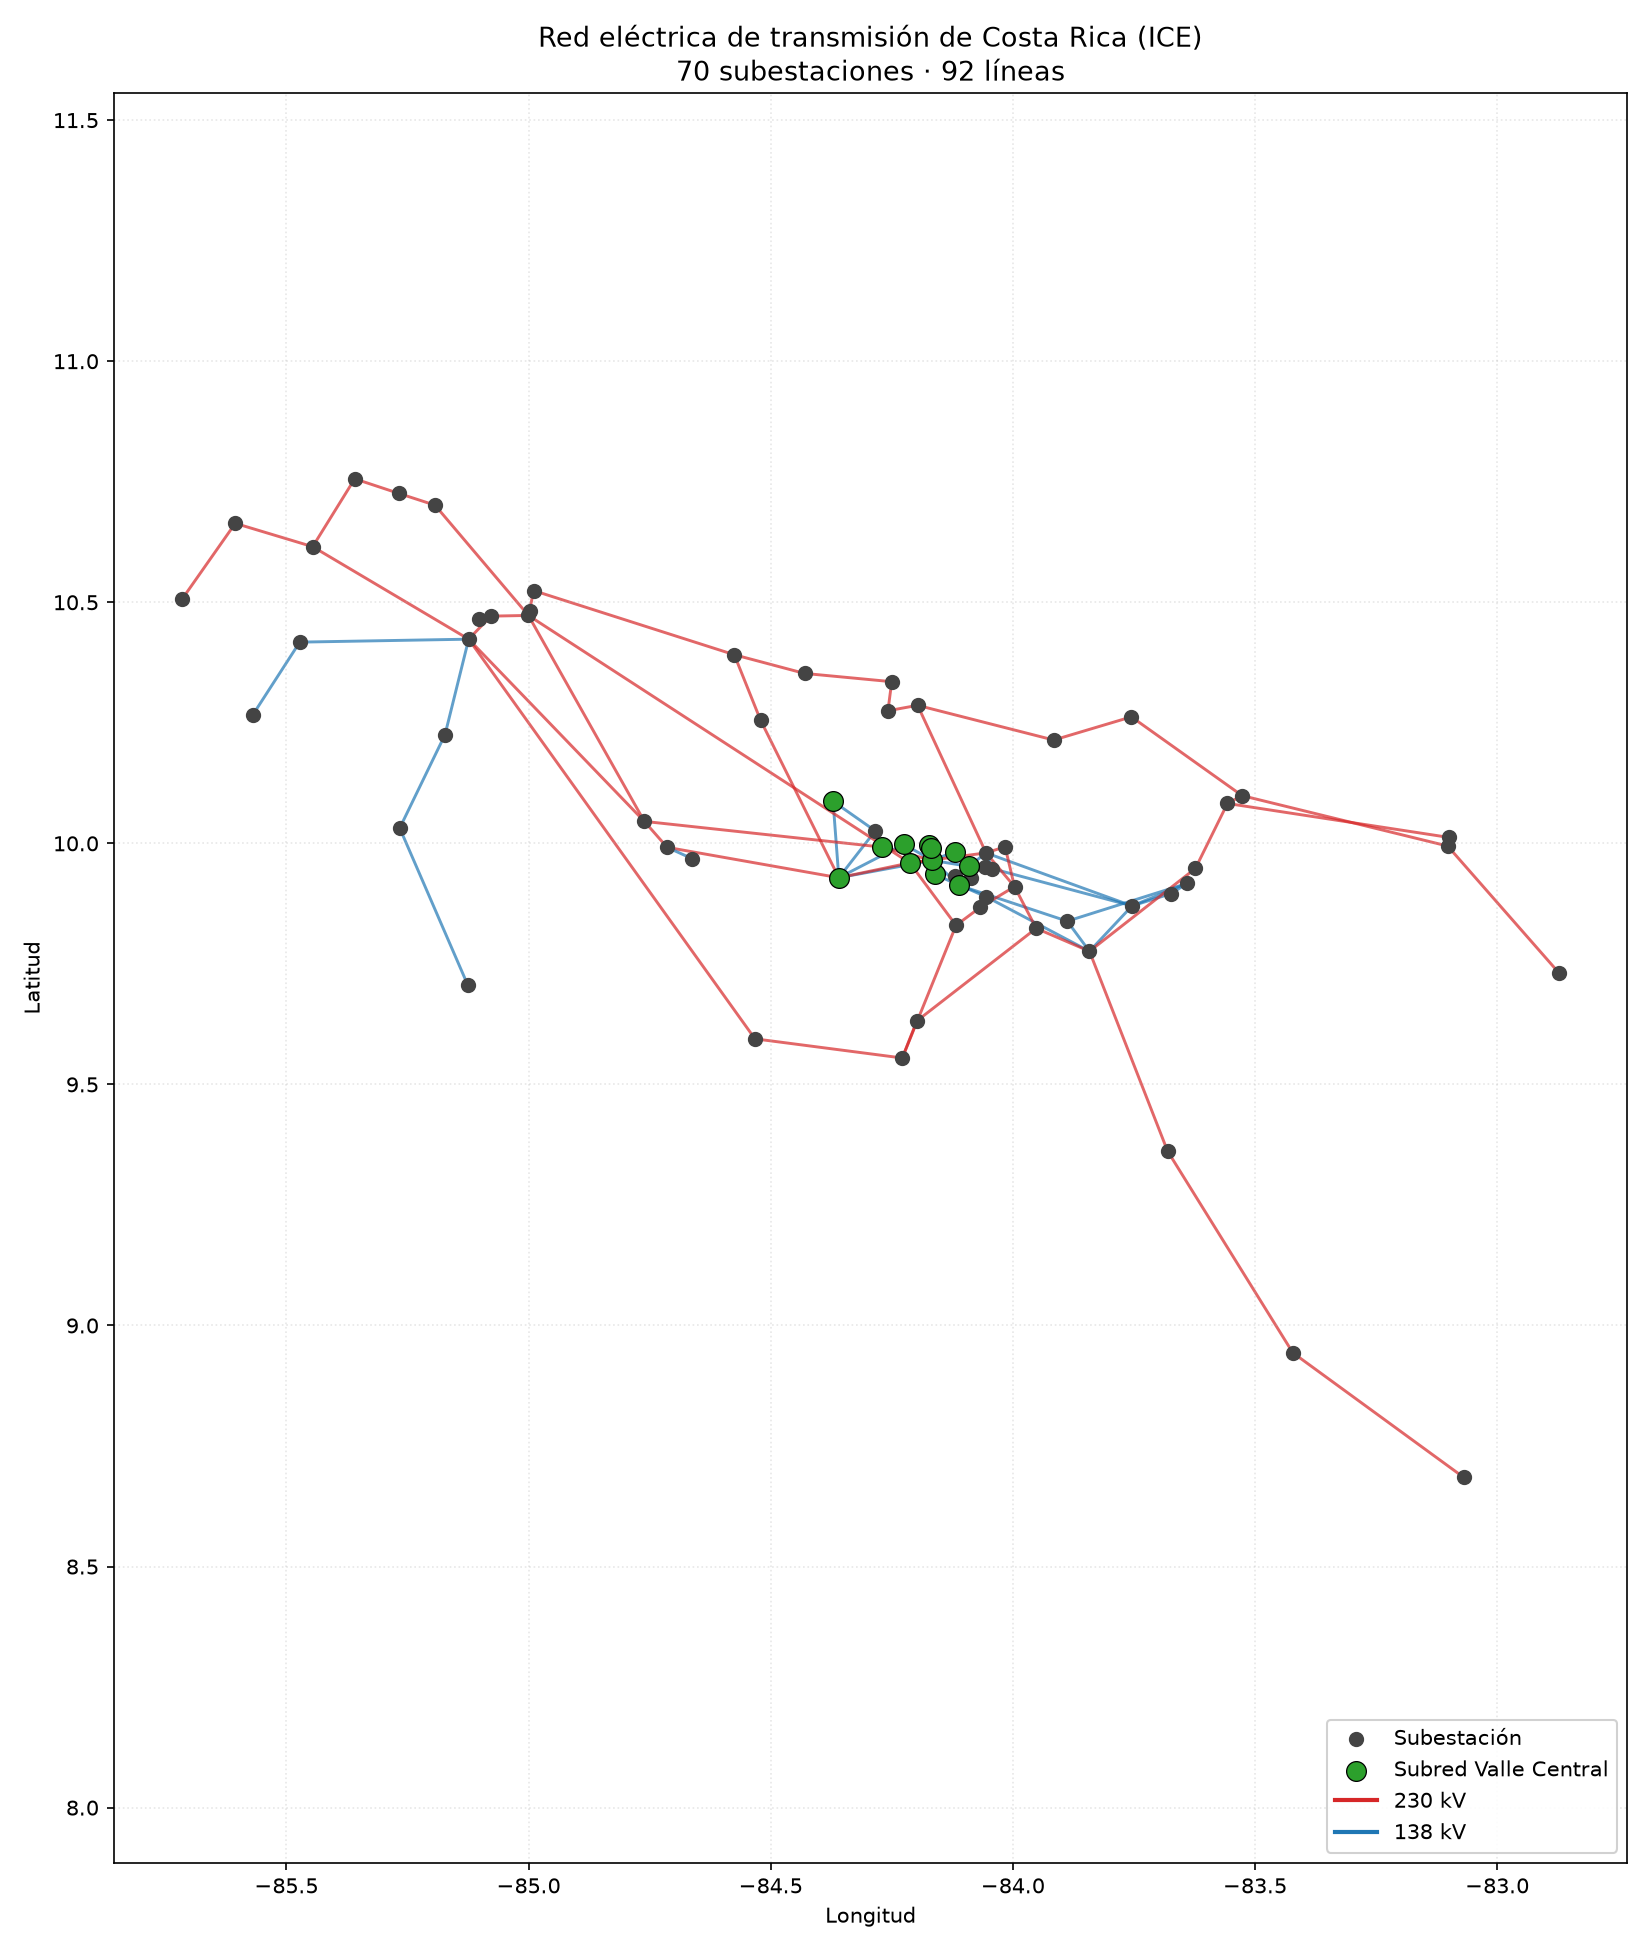
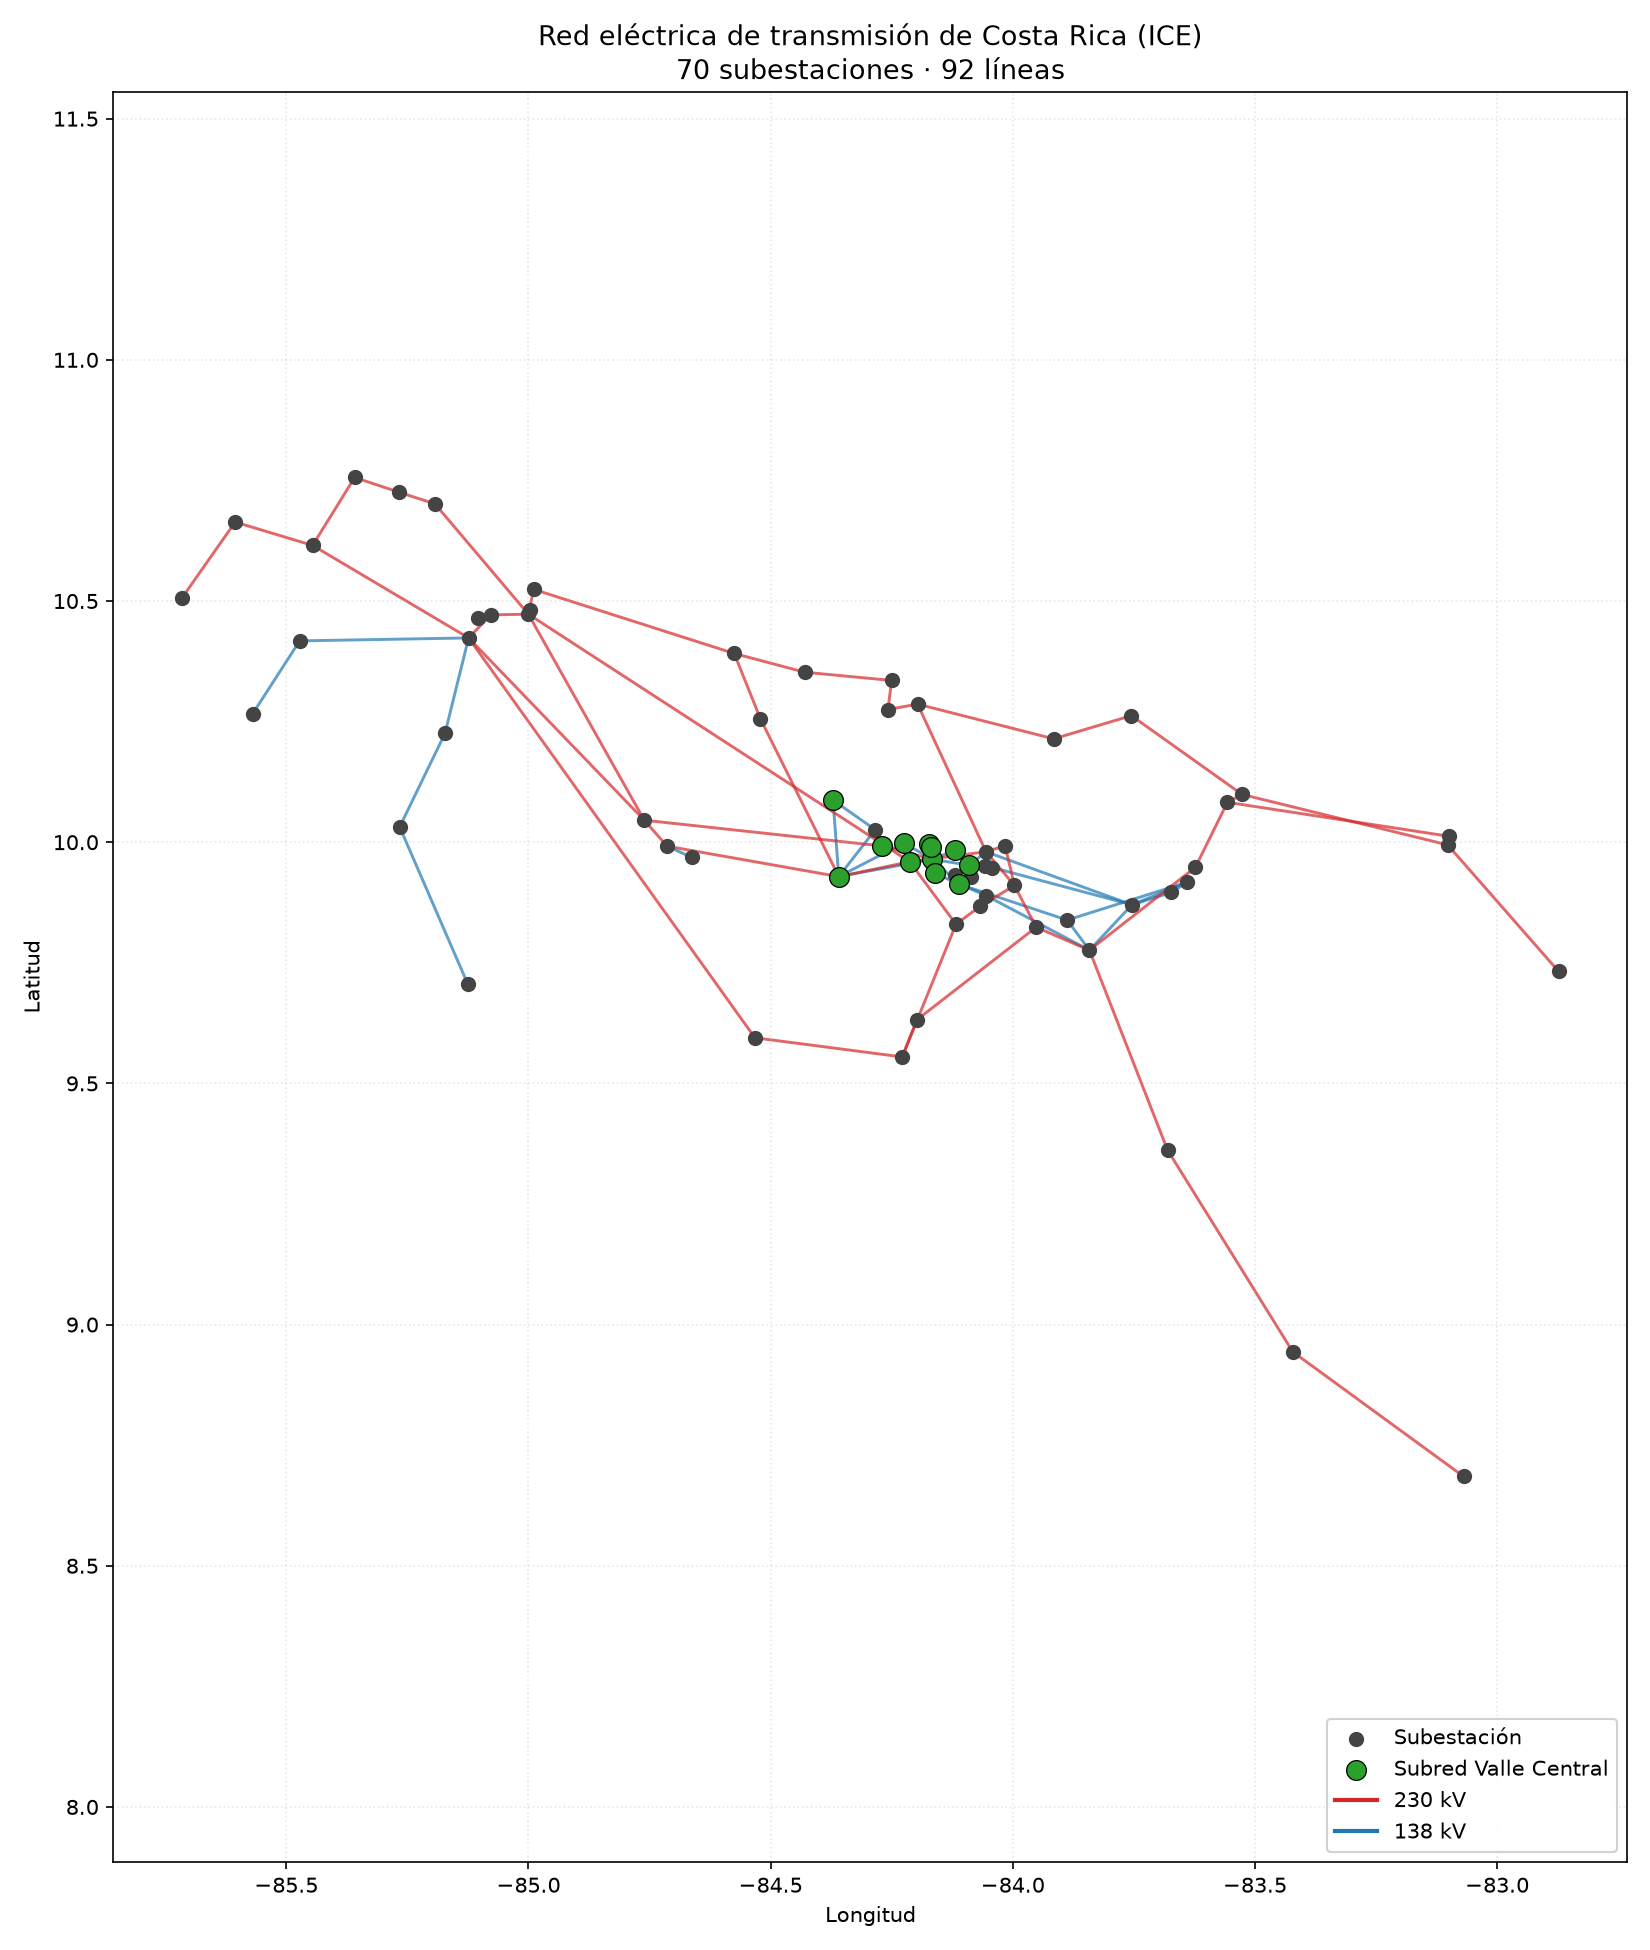
Create algoritms class and graf

diff --git a/src/visualize.py b/src/visualize.py
@@ -15,11 +15,12 @@ from __future__ import annotations
 
 import json
 from pathlib import Path
+from typing import Iterable
 
 import matplotlib.pyplot as plt
 import networkx as nx
 
-from src import graph
+from src import classical_baselines, graph
 
 ROOT = Path(__file__).resolve().parent.parent
 RAW_DIR = ROOT / "data" / "raw"
@@ -127,6 +128,52 @@ def plot_subgraph(sub: nx.Graph, out: Path) -> Path:
     return out
 
 
+def plot_result_bars(results: dict[str, float], out: Path) -> Path:
+    """Grafica una comparación clara de valores de corte entre algoritmos."""
+    fig, ax = plt.subplots(figsize=(9, 5))
+    names = list(results.keys())
+    values = [results[name] for name in names]
+    colors = ["#1f77b4", "#ff7f0e", "#2ca02c", "#d62728"]
+
+    ax.barh(names, values, color=colors[: len(names)], edgecolor="#333333", alpha=0.9)
+    ax.set_xlabel("Valor de Max-Cut")
+    ax.set_title("Comparación de algoritmos clásicos para Max-Cut")
+    ax.grid(axis="x", linestyle=":", alpha=0.5)
+    for i, value in enumerate(values):
+        ax.text(value + max(values) * 0.01, i, f"{value:.2f}", va="center", fontsize=10)
+
+    fig.tight_layout()
+    out.parent.mkdir(parents=True, exist_ok=True)
+    fig.savefig(out, dpi=180, bbox_inches="tight")
+    plt.close(fig)
+    return out
+
+
+def plot_cut_partition(G: nx.Graph, partition: dict[str, int], out: Path) -> Path:
+    """Grafica el corte para una partición de Max-Cut usando un diseño claro."""
+    pos = _positions(G)
+    if len(pos) < G.number_of_nodes():
+        pos = nx.spring_layout(G, seed=42, weight="weight")
+
+    cut_edges = [(u, v) for u, v in G.edges() if partition.get(u) != partition.get(v)]
+    same_edges = [(u, v) for u, v in G.edges() if partition.get(u) == partition.get(v)]
+
+    fig, ax = plt.subplots(figsize=(10, 8))
+    nx.draw_networkx_nodes(G, pos, ax=ax, node_size=240, node_color=["#1f77b4" if partition.get(n) == 0 else "#ff7f0e" for n in G.nodes()], edgecolors="#222222", linewidths=0.8)
+    nx.draw_networkx_edges(G, pos, ax=ax, edgelist=same_edges, edge_color="#bbbbbb", alpha=0.6, width=1.2)
+    nx.draw_networkx_edges(G, pos, ax=ax, edgelist=cut_edges, edge_color="#d62728", alpha=0.95, width=2.3)
+    nx.draw_networkx_labels(G, pos, ax=ax, font_size=8, font_color="#222222")
+
+    ax.set_title("Partición de Max-Cut: bordes en rojo representan el corte", fontsize=13)
+    ax.axis("off")
+    fig.tight_layout()
+
+    out.parent.mkdir(parents=True, exist_ok=True)
+    fig.savefig(out, dpi=180, bbox_inches="tight")
+    plt.close(fig)
+    return out
+
+
 def main() -> None:
     subs = json.loads((RAW_DIR / "subestaciones.geojson").read_text(encoding="utf-8"))
     lines = json.loads((RAW_DIR / "lineas.geojson").read_text(encoding="utf-8"))
@@ -135,9 +182,27 @@ def main() -> None:
 
     p1 = plot_national(G, highlight=set(sub.nodes), out=FIG_DIR / "red_nacional.png")
     p2 = plot_subgraph(sub, out=FIG_DIR / "subred_valle_central.png")
+
+    results = {}
+    results["Greedy"] = classical_baselines.greedy_maxcut(sub, seed=0)[1]
+    results["Goemans-Williamson"] = classical_baselines.goemans_williamson(sub, n_rounding_trials=100, seed=42)[1]
+
+    p3 = plot_result_bars(results, out=FIG_DIR / "comparacion_algoritmos.png")
+
+    # Usar la partición del mejor algoritmo para mostrar el corte
+    best_algo = max(results, key=results.get)
+    if best_algo == "Greedy":
+        best_partition = classical_baselines.greedy_maxcut(sub, seed=0)[0]
+    else:
+        best_partition = classical_baselines.goemans_williamson(sub, n_rounding_trials=100, seed=42)[0]
+
+    p4 = plot_cut_partition(sub, best_partition, out=FIG_DIR / "maxcut_partition.png")
+
     print("Figuras generadas:")
     print(" -", p1)
     print(" -", p2)
+    print(" -", p3)
+    print(" -", p4)
 
 
 if __name__ == "__main__":

diff --git a/README.md b/README.md
@@ -52,6 +52,21 @@ source .venv/bin/activate
 
 When you need a new package, install it inside the activated venv, then add it to `requirements.txt` so the rest of the team picks it up next time they run the setup script.
 
+### Visualización de resultados
+
+Este proyecto incluye un script de visualización que genera gráficos modernos y profesionales a partir de la subred usada para Max-Cut:
+
+```powershell
+python -m src.visualize
+```
+
+El script produce las siguientes figuras en `figures/`:
+
+* `red_nacional.png` — mapa de la red eléctrica nacional con la subred resaltada.
+* `subred_valle_central.png` — visualización de la subred usada para los algoritmos.
+* `comparacion_algoritmos.png` — barra comparativa de los valores de Max-Cut obtenidos por los métodos clásicos.
+* `maxcut_partition.png` — partición del mejor algoritmo con los bordes cortados en rojo.
+
 ### Key dependencies
 
 * [`pytket`](https://tket.quantinuum.com/) — quantum SDK / circuit compilation